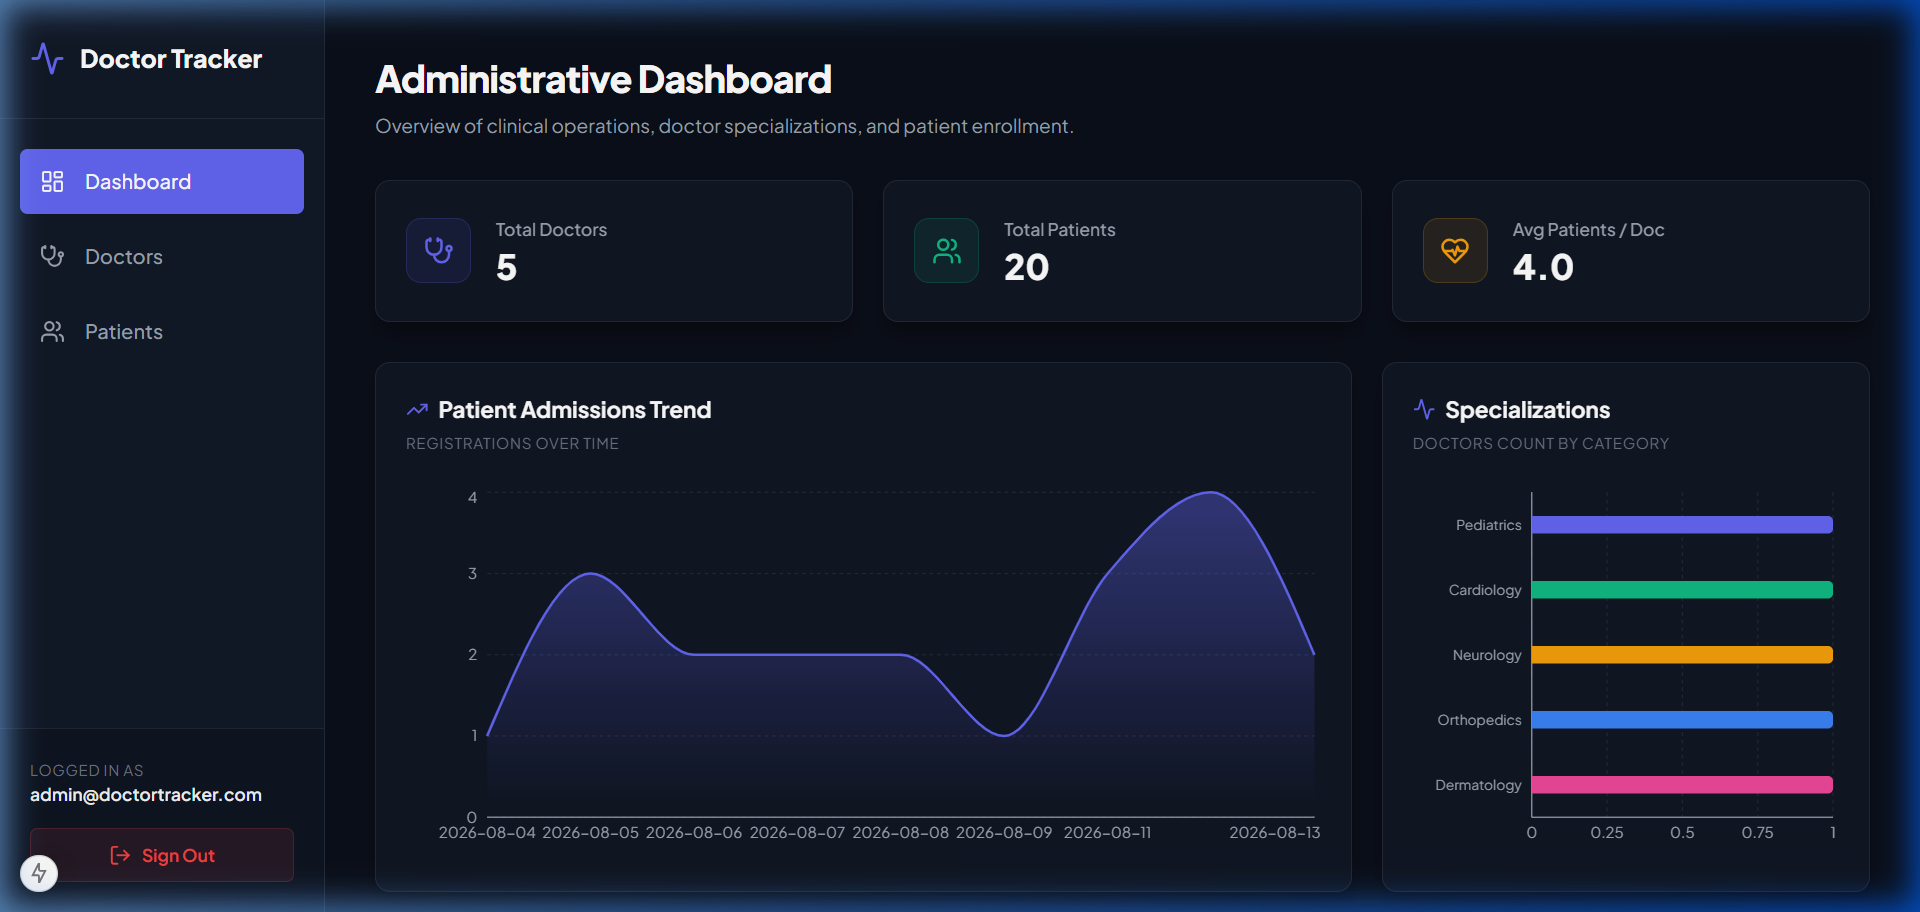
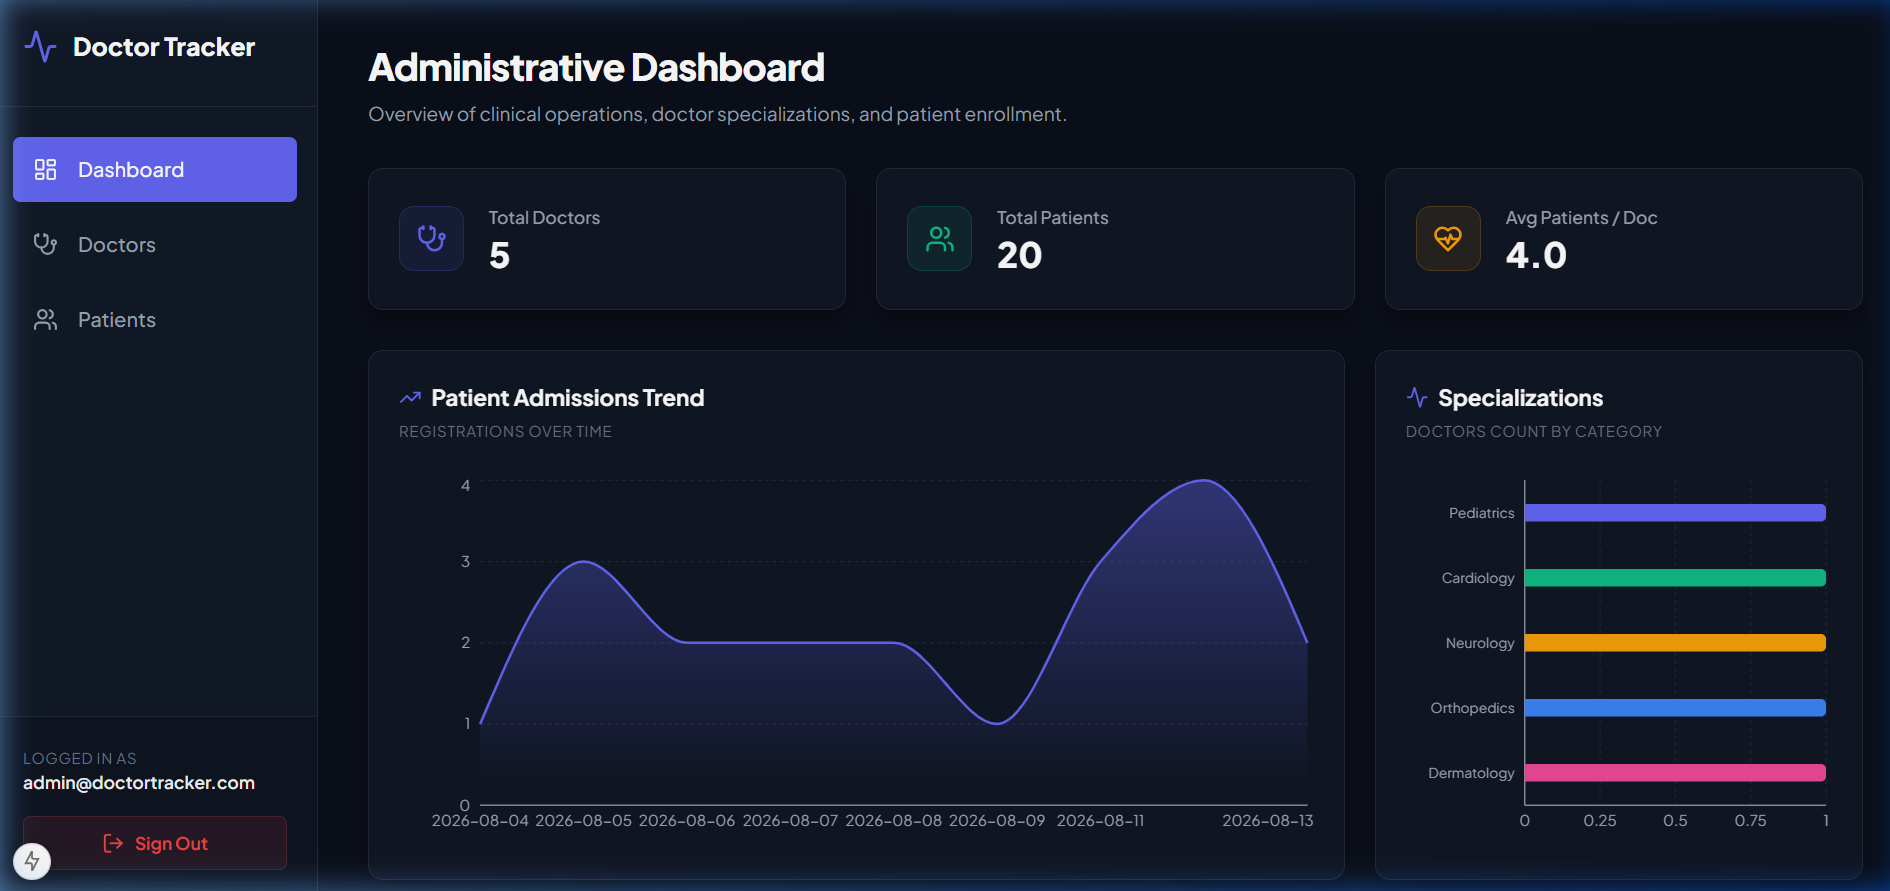
docs(frontend): update visual evidence section in frontend README with new details view and responsive screenshots

diff --git a/README.md b/README.md
@@ -147,10 +147,14 @@ graph TD
 *Reflowed layout stacking metric cards and vertical charting.*
 ![Dashboard Mobile](./screenshots/dashboard_mobile.png)
 
-#### 2. Doctors Page (Mobile)
-*Mobile-responsive grid displaying searchable cards with hamburger side menu.*
+#### 2. Doctors Directory - List View (Mobile)
+*Mobile-responsive list displaying doctor profiles as compact, clean cards.*
 ![Doctors Mobile](./screenshots/doctors_mobile.png)
 
-#### 3. Patients Page (Mobile)
-*Responsive data structure layout optimized for narrow mobile viewports.*
+#### 3. Doctors Directory - Details View (Mobile)
+*Full screen details layout showing contact card and patient loader after row selection.*
+![Doctors Mobile Details](./screenshots/doctors_mobile_detail.png)
+
+#### 4. Patients Directory (Mobile)
+*Optimized card-list view containing full patient metadata and edit/delete modal controls.*
 ![Patients Mobile](./screenshots/patients_mobile.png)
